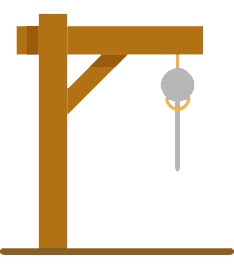
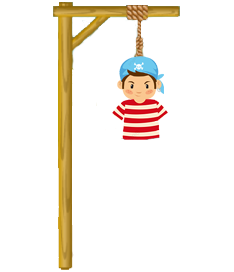
update2

diff --git a/js/forca.js b/js/forca.js
@@ -140,10 +140,10 @@ function comparalistas(letra){
     const pos = palavraSecretaSorteada.indexOf(letra)
     if(pos < 0){
         tentativas--
+        abreModal("ERROU!", "Tentativas restantes: " +tentativas);
         carregaImagemForca();
-
         if(tentativas == 0){
-            abreModal("OPS!", "Não foi dessa vez ... A palavra secreta era <br>" + palavraSecretaSorteada);
+            abreModal("PERDEU!", "Você foi enforcado... A palavra secreta era <br>" + palavraSecretaSorteada);
         }
     }
     else{
